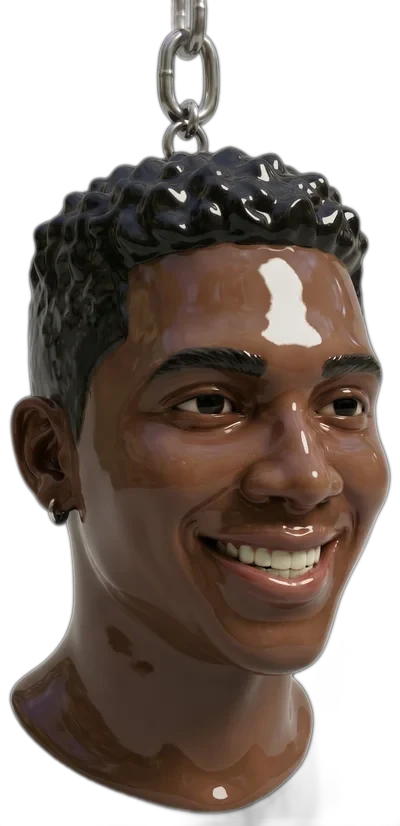
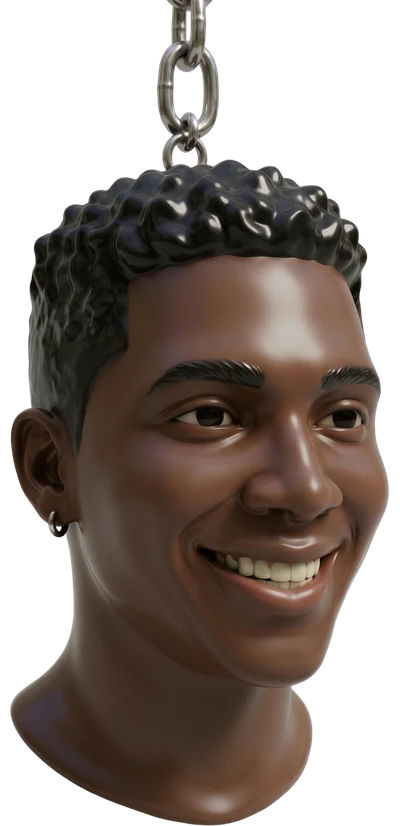
El llavero nuevo, con menos brillo
Jean mando otro render del llavero; ya venia con alfa y se encajo en el
mismo lienzo de 400 x 826, con la cadena alineada al pivote: mismo lugar,
misma altura, mismo todo.

diff --git a/CLAUDE.md b/CLAUDE.md
@@ -89,7 +89,7 @@ El sistema tiene dos capas.
 - El trabajo de diseño va a color, no en blanco y negro: las páginas de un manual, las pantallas de una interfaz, un logo. Ahí el color es el contenido (una paleta en gris no dice nada). En los casos, cada imagen lleva `color: true` y la portada del caso `coverColor: true` (ver el esquema). El blanco y negro queda por defecto para que una foto no se pase de color sin querer.
 - Sujeto recortado sobre azul plano, o rectángulo duro
 - Nunca círculos, nunca bordes redondeados, nunca marcos
-- El llavero 3D de Jean va a color: es un objeto, no una fotografía. Vive en el footer: SAY va en la primera línea y HEY. en la segunda, con sangría; el llavero cuelga de su cadena, que sale por debajo de SAY, y la cabeza, grande (más de una vez y media el alto de la caja HEY), queda en esa sangría, a la izquierda de la caja, y baja por debajo de ella. Desde 2026-10-19 usa el recorte con alfa real (`public/images/jean-keychain-cut.webp`, rembg sobre el render original `jean-keychain.webp`): el lighten de antes teñía la cabeza sobre el campo Klein del footer.
+- El llavero 3D de Jean va a color: es un objeto, no una fotografía. Vive en el footer: SAY va en la primera línea y HEY. en la segunda, con sangría; el llavero cuelga de su cadena, que sale por debajo de SAY, y la cabeza, grande (más de una vez y media el alto de la caja HEY), queda en esa sangría, a la izquierda de la caja, y baja por debajo de ella. Desde 2026-10-19 usa el recorte con alfa real (`public/images/jean-keychain-cut.webp`): primero rembg sobre el render original y, ese mismo día, el render nuevo con menos brillo que mandó Jean (ya venía con alfa), encajado en el mismo lienzo de 400 × 826 con la cadena en el pivote. El lighten de antes teñía la cabeza sobre el campo Klein del footer.
 - El retrato de Jean (`public/images/jean-portrait.jpg`) aparece en la escarapela (blanco y negro) y, si falta el video, en el póster de desarrollo de la sección de video (duotono Klein).
 - About lleva la foto de Jean como póster (`src/components/home/AboutPoster.astro`, elegido por Jean el 2026-10-19 entre tres opciones): la foto entera en blanco y negro duro, JEAN gigante en azul eléctrico DETRÁS de la cabeza (la capa de encima es Jean recortado con rembg, `public/images/jean-about-cut.webp`; el script del recorte quedó en el chat, isnet-general-use) y ALOMIA en contorno (text-stroke offwhite) por DELANTE. Etiquetas INTERACTIVE MEDIA DESIGNER arriba y CALI, CO ■ WORLDWIDE abajo, el cuadrado naranja en la esquina. Todo en cqi del marco. Sin marco, sin funda.
 
